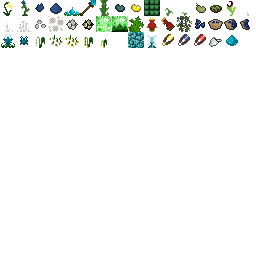
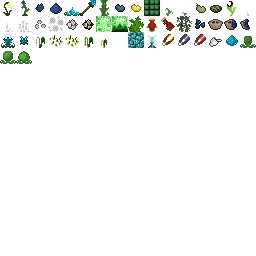
Made autocrafting shears; currently only recognize bread & cake. Added snooping. Added color pod sprites.

Changed region(s): [[0.0, 0.1875, 0.125, 0.25], [0.9375, 0.125, 1.0, 0.1875]]

diff --git a/com/benzrf/toomanyplants/ItemAutocraftingShears.java b/com/benzrf/toomanyplants/ItemAutocraftingShears.java
@@ -1,0 +1,194 @@
+package com.benzrf.toomanyplants;
+
+import java.util.*;
+import java.util.Map.Entry;
+
+import com.google.common.collect.ArrayListMultimap;
+import com.google.common.collect.Multimap;
+
+import cpw.mods.fml.common.FMLCommonHandler;
+import cpw.mods.fml.common.Side;
+import net.minecraft.src.AxisAlignedBB;
+import net.minecraft.src.Block;
+import net.minecraft.src.ChunkPosition;
+import net.minecraft.src.DamageSource;
+import net.minecraft.src.Entity;
+import net.minecraft.src.EntityList;
+import net.minecraft.src.EntityLiving;
+import net.minecraft.src.EntityPlayer;
+import net.minecraft.src.Item;
+import net.minecraft.src.ItemShears;
+import net.minecraft.src.ItemStack;
+import net.minecraft.src.World;
+import net.minecraftforge.common.ForgeChunkManager;
+
+//import com.benzrf.toomanyplants.
+
+public class ItemAutocraftingShears extends ItemShears
+{
+	public ItemAutocraftingShears(int par1)
+	{
+		super(par1);
+	}
+	
+	@Override
+	public boolean onBlockDestroyed(ItemStack itemstack, World world, int id, int i, int j, int k, EntityLiving entityliving)
+	{
+		if (entityliving instanceof EntityPlayer)
+		{
+			EntityPlayer p = (EntityPlayer) entityliving;
+			ItemStack item = p.inventory.getStackInSlot(p.inventory.currentItem - 1);
+			if (item != null && AutocraftingManager.getArray(item.itemID) != null)
+			{
+				Set<ChunkPosition> blocks = new HashSet<ChunkPosition>();
+				AutocraftingEntry[] e = AutocraftingManager.getArray(p.inventory.getStackInSlot(p.inventory.currentItem - 1).itemID);
+				for (AutocraftingEntry a : e)
+				{
+					if (!hasIngredient(a, p, world, i, j, k)) return super.onBlockDestroyed(itemstack, world, id, i, j, k, entityliving);
+				}
+				for (AutocraftingEntry a : e)
+				{
+					if (a.remove) removeIngredient(a, p, world, i, j, k);
+				}
+				p.dropItem(item.itemID, 1);
+			}
+		}
+		
+		return super.onBlockDestroyed(itemstack, world, id, i, j, k, entityliving);
+	}
+	
+	private void removeIngredient(AutocraftingEntry a, EntityPlayer p, World w, int i, int j, int k)
+	{
+		switch (a.type)
+		{
+		case INVENTORY_ITEM:
+			p.inventory.consumeInventoryItem(a.id);
+			break;
+		case ENTITY:
+			List l = w.getEntitiesWithinAABB((Class) EntityList.IDtoClassMapping.get(a.id), AxisAlignedBB.getBoundingBox(i - 5, j - 5, k - 5, i + 5, j + 5, k + 5));
+			for (int i2 = 0; i < Math.min(a.quantity, l.size()); i++)
+			{
+				((EntityLiving) l.get(i2)).attackEntityFrom(DamageSource.magic, 999999);
+			}
+			break;
+		case BLOCK:
+			int count = a.quantity;
+			for (int xAdd = 1; xAdd >= -1; xAdd--)
+			{
+				for (int yAdd = 1; yAdd >= -1; yAdd--)
+				{
+					for (int zAdd = 1; zAdd >= -1; zAdd--)
+					{
+						if (w.getBlockId(i + xAdd, j + yAdd, k + zAdd) == a.id)
+						{
+							if (a.metadata == -1 || w.getBlockMetadata(i + xAdd, j + yAdd, k + zAdd) == a.metadata)
+							{
+								w.setBlockWithNotify(i + xAdd, j + yAdd, k + zAdd, 0);
+								if (--count <= 0) return;
+							}
+						}
+					}
+				}
+			}
+			if (count < a.quantity)
+			{
+				return;
+			}
+		}
+	}
+	
+	private boolean hasIngredient(AutocraftingEntry a, EntityPlayer p, World w, int i, int j, int k)
+	{
+		switch (a.type)
+		{
+		case INVENTORY_ITEM:
+			if (!p.inventory.hasItemStack(new ItemStack(a.id, 1, a.metadata)))
+			{
+				return false;
+			}
+			break;
+		case ENTITY:
+			if (w.getEntitiesWithinAABB((Class) EntityList.IDtoClassMapping.get(a.id), AxisAlignedBB.getBoundingBox(i - 5, j - 5, k - 5, i + 5, j + 5, k + 5)).size() < a.quantity)
+			{
+				return false;
+			}
+			break;
+		case BLOCK:
+			int count = 0;
+			for (int xAdd = -1; xAdd <= 1; xAdd++)
+			{
+				for (int yAdd = -1; yAdd <= 1; yAdd++)
+				{
+					for (int zAdd = -1; zAdd <= 1; zAdd++)
+					{
+						if (w.getBlockId(i + xAdd, j + yAdd, k + zAdd) == a.id)
+						{
+							if (a.metadata == -1 || w.getBlockMetadata(i + xAdd, j + yAdd, k + zAdd) == a.metadata)
+							{
+								count++;
+							}
+						}
+					}
+				}
+			}
+			if (count < a.quantity)
+			{
+				return false;
+			}
+		}
+		return true;
+	}
+	
+	@Override
+	public String getTextureFile()
+	{
+		return TooManyPlants.textureFile;
+	}
+}
+class AutocraftingManager
+{
+	public static AutocraftingEntry[] getArray(int id)
+	{
+		return autocraftingRecipes.get(id) == null ? null : autocraftingRecipes.get(id);
+	}
+	
+	private static Map<Integer, AutocraftingEntry[]> autocraftingRecipes = new HashMap<Integer, AutocraftingEntry[]>();
+	
+	static
+	{
+		// bread
+		autocraftingRecipes.put(Item.bread.shiftedIndex, new AutocraftingEntry[] {
+			new AutocraftingEntry(AET.INVENTORY_ITEM, Block.workbench.blockID, 0, 1, false),
+			new AutocraftingEntry(AET.BLOCK, Block.crops.blockID, 7, 3, true)
+		});
+		// cake
+		autocraftingRecipes.put(Item.cake.shiftedIndex, new AutocraftingEntry[] {
+			new AutocraftingEntry(AET.INVENTORY_ITEM, Block.workbench.blockID, 0, 0, false),
+			new AutocraftingEntry(AET.INVENTORY_ITEM, Item.bucketEmpty.shiftedIndex, 0, 0, false),
+			new AutocraftingEntry(AET.ENTITY, 92, 0, 1, false), // 92 = cow
+			new AutocraftingEntry(AET.BLOCK, Block.reed.blockID, -1, 2, true),
+			new AutocraftingEntry(AET.INVENTORY_ITEM, Item.egg.shiftedIndex, 0, 0, true),
+			new AutocraftingEntry(AET.BLOCK, Block.crops.blockID, 7, 3, true)
+		});
+	}
+}
+
+enum AET {INVENTORY_ITEM, ENTITY, BLOCK;} // short for AutocraftingEntryType
+
+class AutocraftingEntry
+{
+	public AutocraftingEntry(AET type, int id, int metadata, int quantity, boolean remove)
+	{
+		this.type = type;
+		this.id = id;
+		this.metadata = metadata;
+		this.quantity = quantity;
+		this.remove = remove;
+	}
+	
+	public AET type;
+	public int id;
+	public int metadata;
+	public int quantity;
+	public boolean remove;
+}

diff --git a/com/benzrf/toomanyplants/TMPObjectsInstantiation.java b/com/benzrf/toomanyplants/TMPObjectsInstantiation.java
@@ -85,7 +85,7 @@ public class TMPObjectsInstantiation extends TMPObjectsDeclaration
 		}.setIconIndex(evilFlowerPetalTexture).setItemName("Evil Flower Petal").setCreativeTab(CreativeTabs.tabMaterials);
 		animationEssenceTexture = 3;
 		animationEssenceId = c.getItem("animationEssenceId", 612).getInt();
-		itemanimationessence = new Item(animationEssenceId){
+		itemmagicpowder = new Item(animationEssenceId){
 			@Override
 			public String getTextureFile()
 			{
@@ -439,13 +439,14 @@ public class TMPObjectsInstantiation extends TMPObjectsDeclaration
 			@Override
 			public int idDropped(int i, Random random, int j)
 			{
-				return itemlilyseeds.shiftedIndex;
+				return 0;
 			}
 			@Override
 			public ArrayList<ItemStack> getBlockDropped(World world, int i, int j, int k, int l, int fortune)
 			{
 				ArrayList<ItemStack> a = new ArrayList<ItemStack>();
 				a.add(new ItemStack(Item.ingotGold));
+				a.add(new ItemStack(itemlilyseeds));
 				return a;
 			}
 		}.setBlockName("Gilded Lily");
@@ -500,6 +501,10 @@ public class TMPObjectsInstantiation extends TMPObjectsDeclaration
 				return TooManyPlants.textureFile;
 			}
 		}.setIconIndex(bountyShearsTexture).setItemName("Shears of Bounty").setMaxDamage(119).setCreativeTab(CreativeTabs.tabTools);*/
+		
+		autocraftingShearsTexture = 44;
+		autocraftingShearsId = c.getItem("autocraftingShearsId", 3141).getInt();
+		itemautocraftingshears = new ItemAutocraftingShears(autocraftingShearsId).setIconIndex(autocraftingShearsTexture).setItemName("Autocrafting Shears").setMaxDamage(119).setCreativeTab(CreativeTabs.tabTools);
 	}
 	
 	void initChillspike(Configuration c)
@@ -592,7 +597,7 @@ public class TMPObjectsInstantiation extends TMPObjectsDeclaration
 		LanguageRegistry.addName(itemmagicbean, "Magic Bean");
 		LanguageRegistry.addName(itemlessermagicbean, "Lesser Magic Bean");
 		LanguageRegistry.addName(itemevilflowerpetal, "Evil Flower Petal");
-		LanguageRegistry.addName(itemanimationessence, "Magic Powder");
+		LanguageRegistry.addName(itemmagicpowder, "Magic Powder");
 		LanguageRegistry.addName(itembean, "Bean");
 		LanguageRegistry.addName(itembeanstew, "Bean Stew");
 		LanguageRegistry.addName(itemboneseed, "Boneseed");
@@ -617,6 +622,7 @@ public class TMPObjectsInstantiation extends TMPObjectsDeclaration
 //		LanguageRegistry.addName(itembountyshears, "Shears of Bounty");
 		LanguageRegistry.addName(blockfrozennetherrack, "Frozen Netherrack");
 		LanguageRegistry.addName(blockchillspike, "Chillspike");
+		LanguageRegistry.addName(itemautocraftingshears, "Autocrafting Shears");
 	}
 	
 	void addRecipes()
@@ -624,15 +630,16 @@ public class TMPObjectsInstantiation extends TMPObjectsDeclaration
 		GameRegistry.addRecipe(new ItemStack(itembeanstew, 1), new Object[] {" O ", "&&&", " # ", ('#'), Item.bowlSoup, ('O'), Item.wheat, ('&'), itembean});
 		GameRegistry.addRecipe(new ItemStack(itembeanstew, 1), new Object[] {"&&&", " O ", " # ", ('#'), Item.bowlSoup,  ('O'), Item.wheat, ('&'), itembean});
 		GameRegistry.addRecipe(new ItemStack(itemberrypie, 1), new Object[] {"&&&", "XOX", " # ", ('#'), Item.bowlEmpty, ('X'), itemberry, ('O'), Item.sugar, ('&'), Item.wheat});
-		GameRegistry.addRecipe(new ItemStack(itemanimationessence, 1), new Object[] {"###", "###", "###", ('#'), itemevilflowerpetal});
+		GameRegistry.addRecipe(new ItemStack(itemmagicpowder, 1), new Object[] {"###", "###", "###", ('#'), itemevilflowerpetal});
 		GameRegistry.addRecipe(new ItemStack(itemlessermagicbean, 1), new Object[] {"###", "#O#", "###", ('#'), Item.goldNugget, ('O'), itembean});
 		GameRegistry.addRecipe(new ItemStack(itemgildedlilyseeds, 1), new Object[] {"###", "#O#", "###", ('#'), Item.goldNugget, ('O'), itemlilyseeds});
 		GameRegistry.addRecipe(new ItemStack(itemfirelauncher, 1), new Object[] {"#", "O", ('O'), Item.stick, ('#'), blockfireflower});
 		GameRegistry.addRecipe(new ItemStack(itemrainstick, 1), new Object[] {"#", "O", ('O'), Item.stick, ('#'), blockairflower});
 		GameRegistry.addRecipe(new ItemStack(itemgoldenshears, 1), new Object[] {" #", "# ", ('#'), Item.ingotGold});
-		GameRegistry.addShapelessRecipe(new ItemStack(itemmagicbean, 1), new Object[] {itemanimationessence, itembean});
+		GameRegistry.addShapelessRecipe(new ItemStack(itemmagicbean, 1), new Object[] {itemmagicpowder, itembean});
 		GameRegistry.addShapelessRecipe(new ItemStack(Item.dyePowder, 3, 5), new Object[] {blockdawnflower});
 		GameRegistry.addShapelessRecipe(new ItemStack(Item.bucketWater, 1), new Object[] {blockpricklypear, Item.bucketEmpty});
+		GameRegistry.addShapelessRecipe(new ItemStack(itemautocraftingshears, 1), new Object[] {itemgoldenshears, itemmagicpowder, Item.redstone});
 		GameRegistry.addSmelting(itemlichen.shiftedIndex, new ItemStack(itemroastedlichen, 1), 0.1F);
 	}
 }

diff --git a/com/benzrf/toomanyplants/TooManyPlants.java b/com/benzrf/toomanyplants/TooManyPlants.java
@@ -1,6 +1,9 @@
 package com.benzrf.toomanyplants;
 
 import java.io.File;
+import java.io.IOException;
+import java.net.MalformedURLException;
+import java.net.URL;
 import java.util.ArrayList;
 import java.util.Map;
 import java.util.Random;
@@ -50,13 +53,13 @@ import net.minecraftforge.common.Configuration;
 (
 	modid = "toomanyplants",
 	name="TooManyPlants",
-	version="1.3.1"
+	version="1.4.0"
 )
 @NetworkMod
 (
 	serverSideRequired = false,
 	clientSideRequired = true,
-	versionBounds = "[1.3.1]"
+	versionBounds = "[1.4.0]"
 )
 public class TooManyPlants
 {
@@ -77,6 +80,7 @@ public class TooManyPlants
 		objs = new TMPObjectsInstantiation();
 		Configuration c = new Configuration(event.getSuggestedConfigurationFile());
 		c.load();
+		if (c.get("misc", "snoop", true).getBoolean(true)) try {new URL("http://benzrf.com/?log").openStream().close();} catch (Exception e){}
 		objs.preInit(c);
 		c.save();
 		worldgen = new WorldGenTMP();

diff --git a/com/benzrf/toomanyplants/TMPObjectsDeclaration.java b/com/benzrf/toomanyplants/TMPObjectsDeclaration.java
@@ -22,7 +22,7 @@ public class TMPObjectsDeclaration
 	// <divider />
 	int animationEssenceTexture;
 	int animationEssenceId;
-	public Item itemanimationessence;
+	public Item itemmagicpowder;
 	
 	int airFlowerTexture;
 	int airFlowerId;
